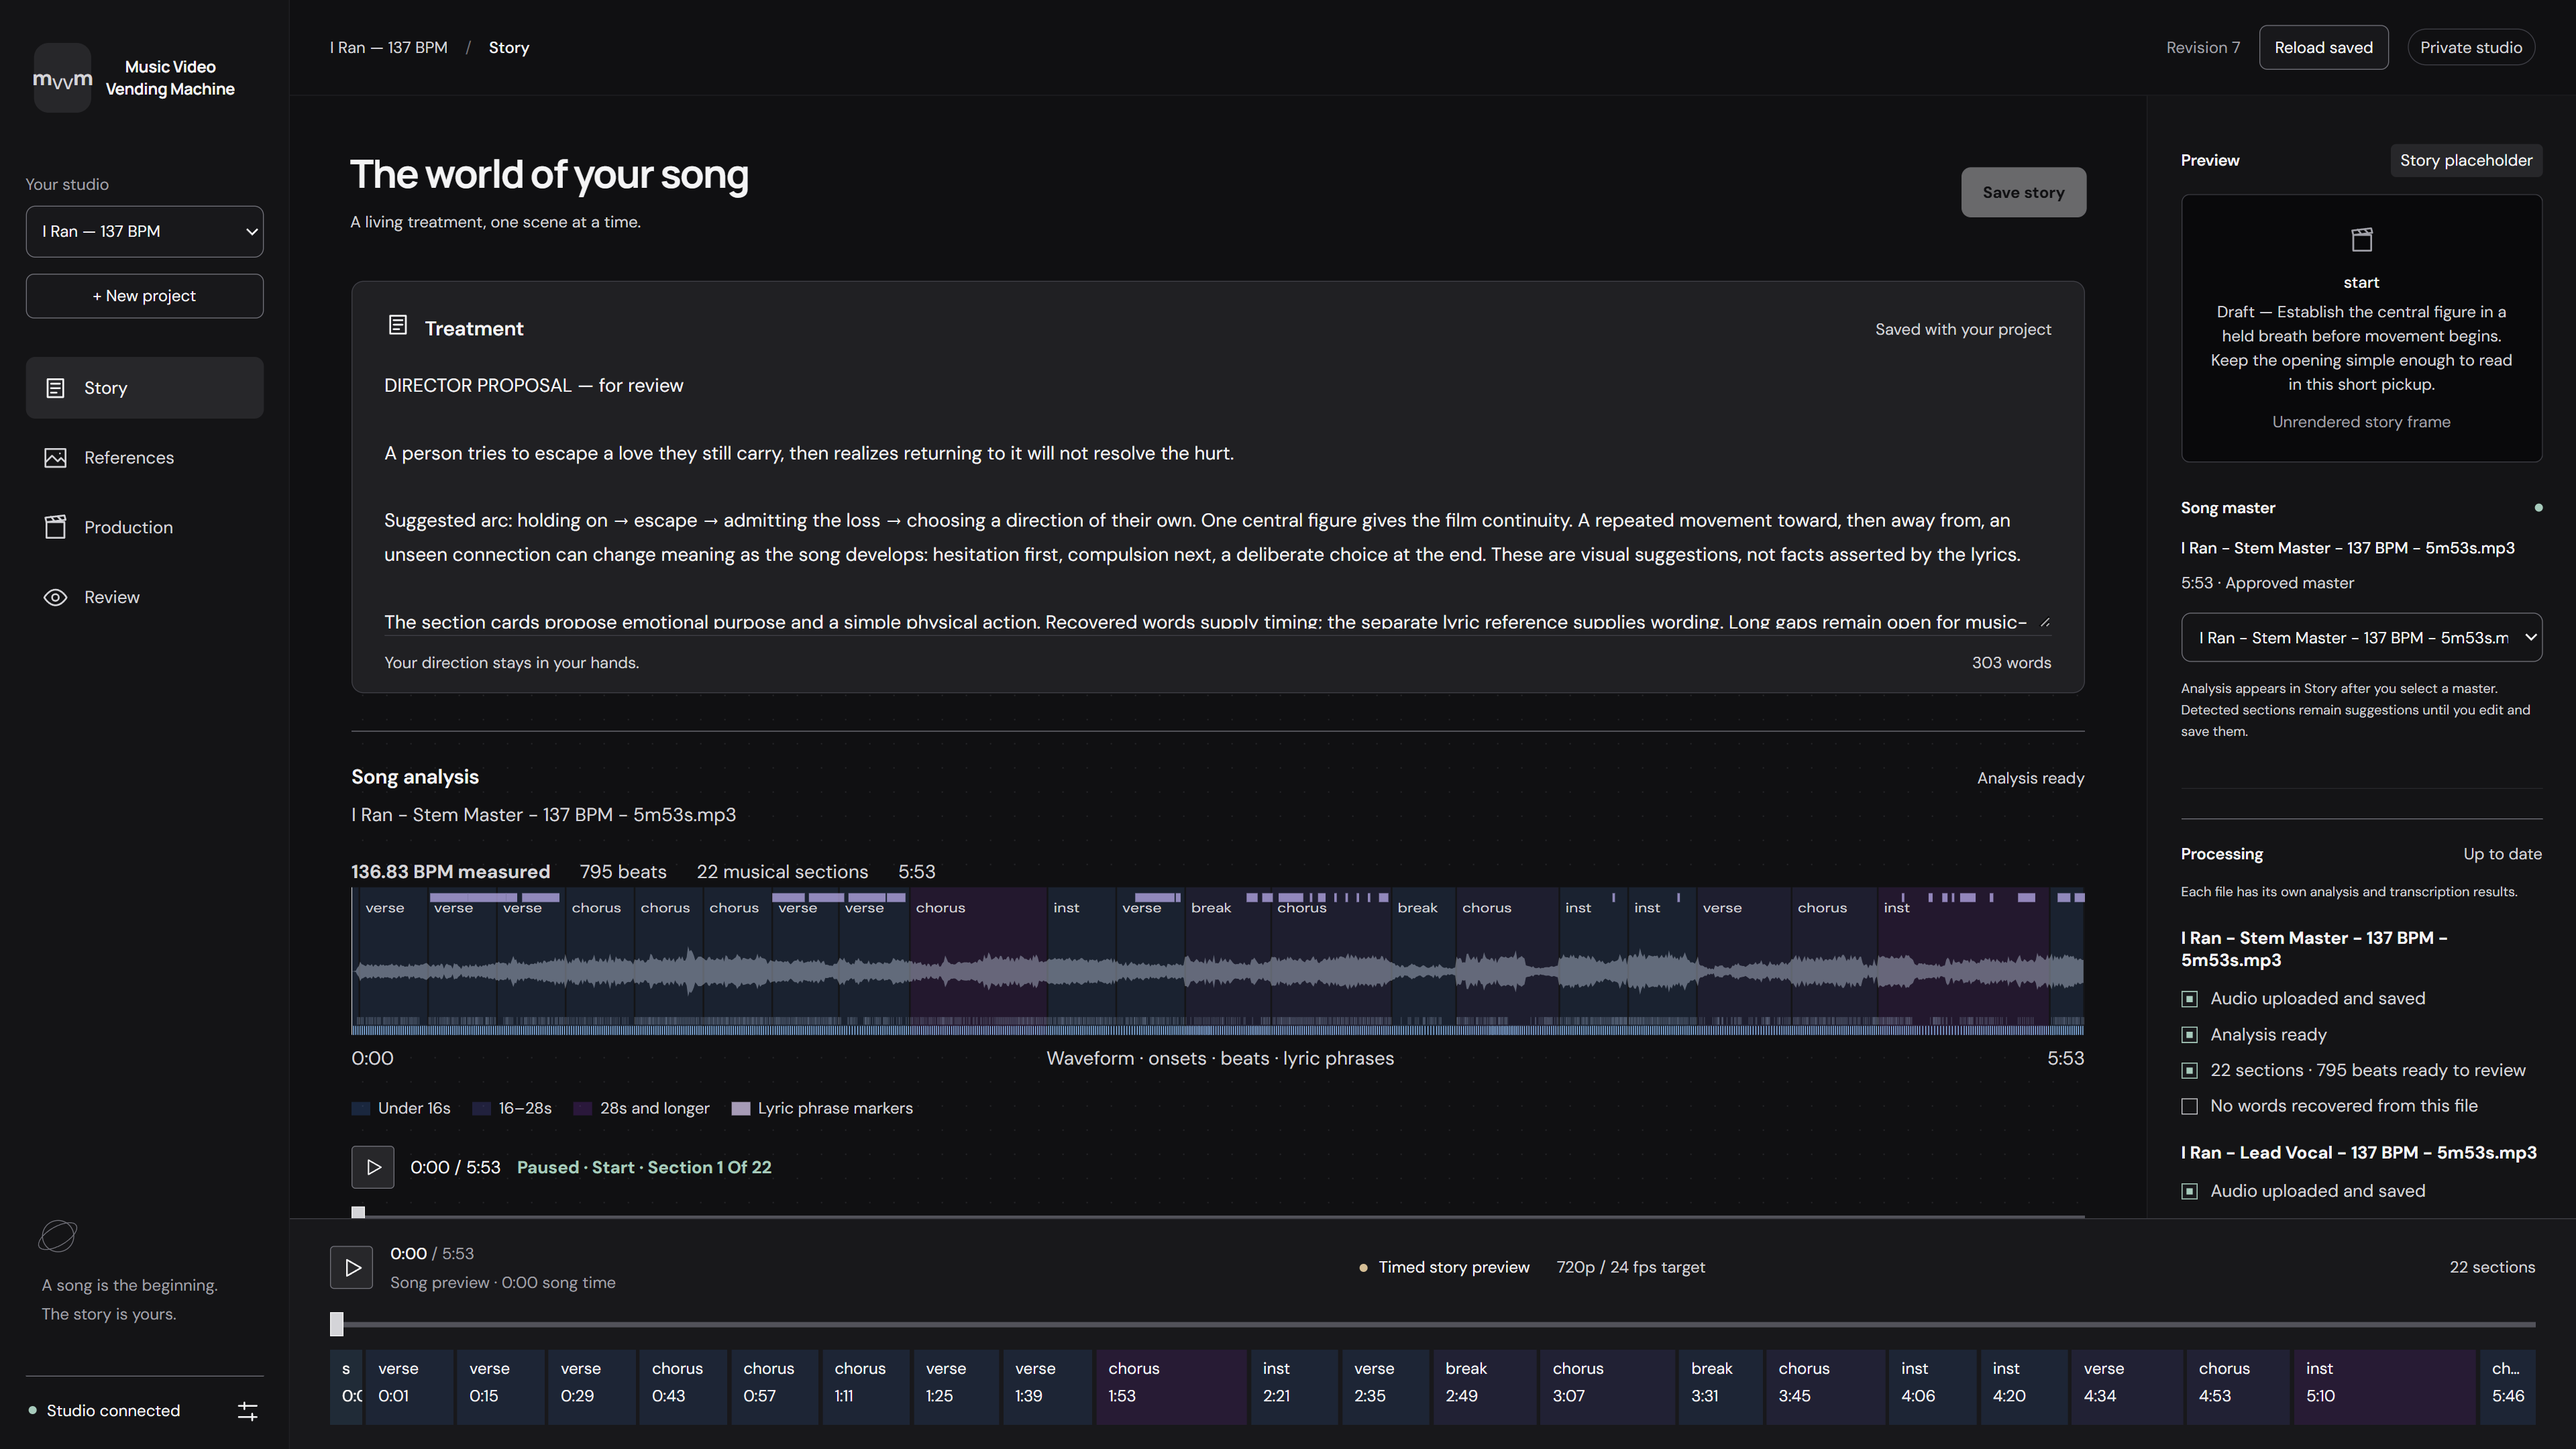
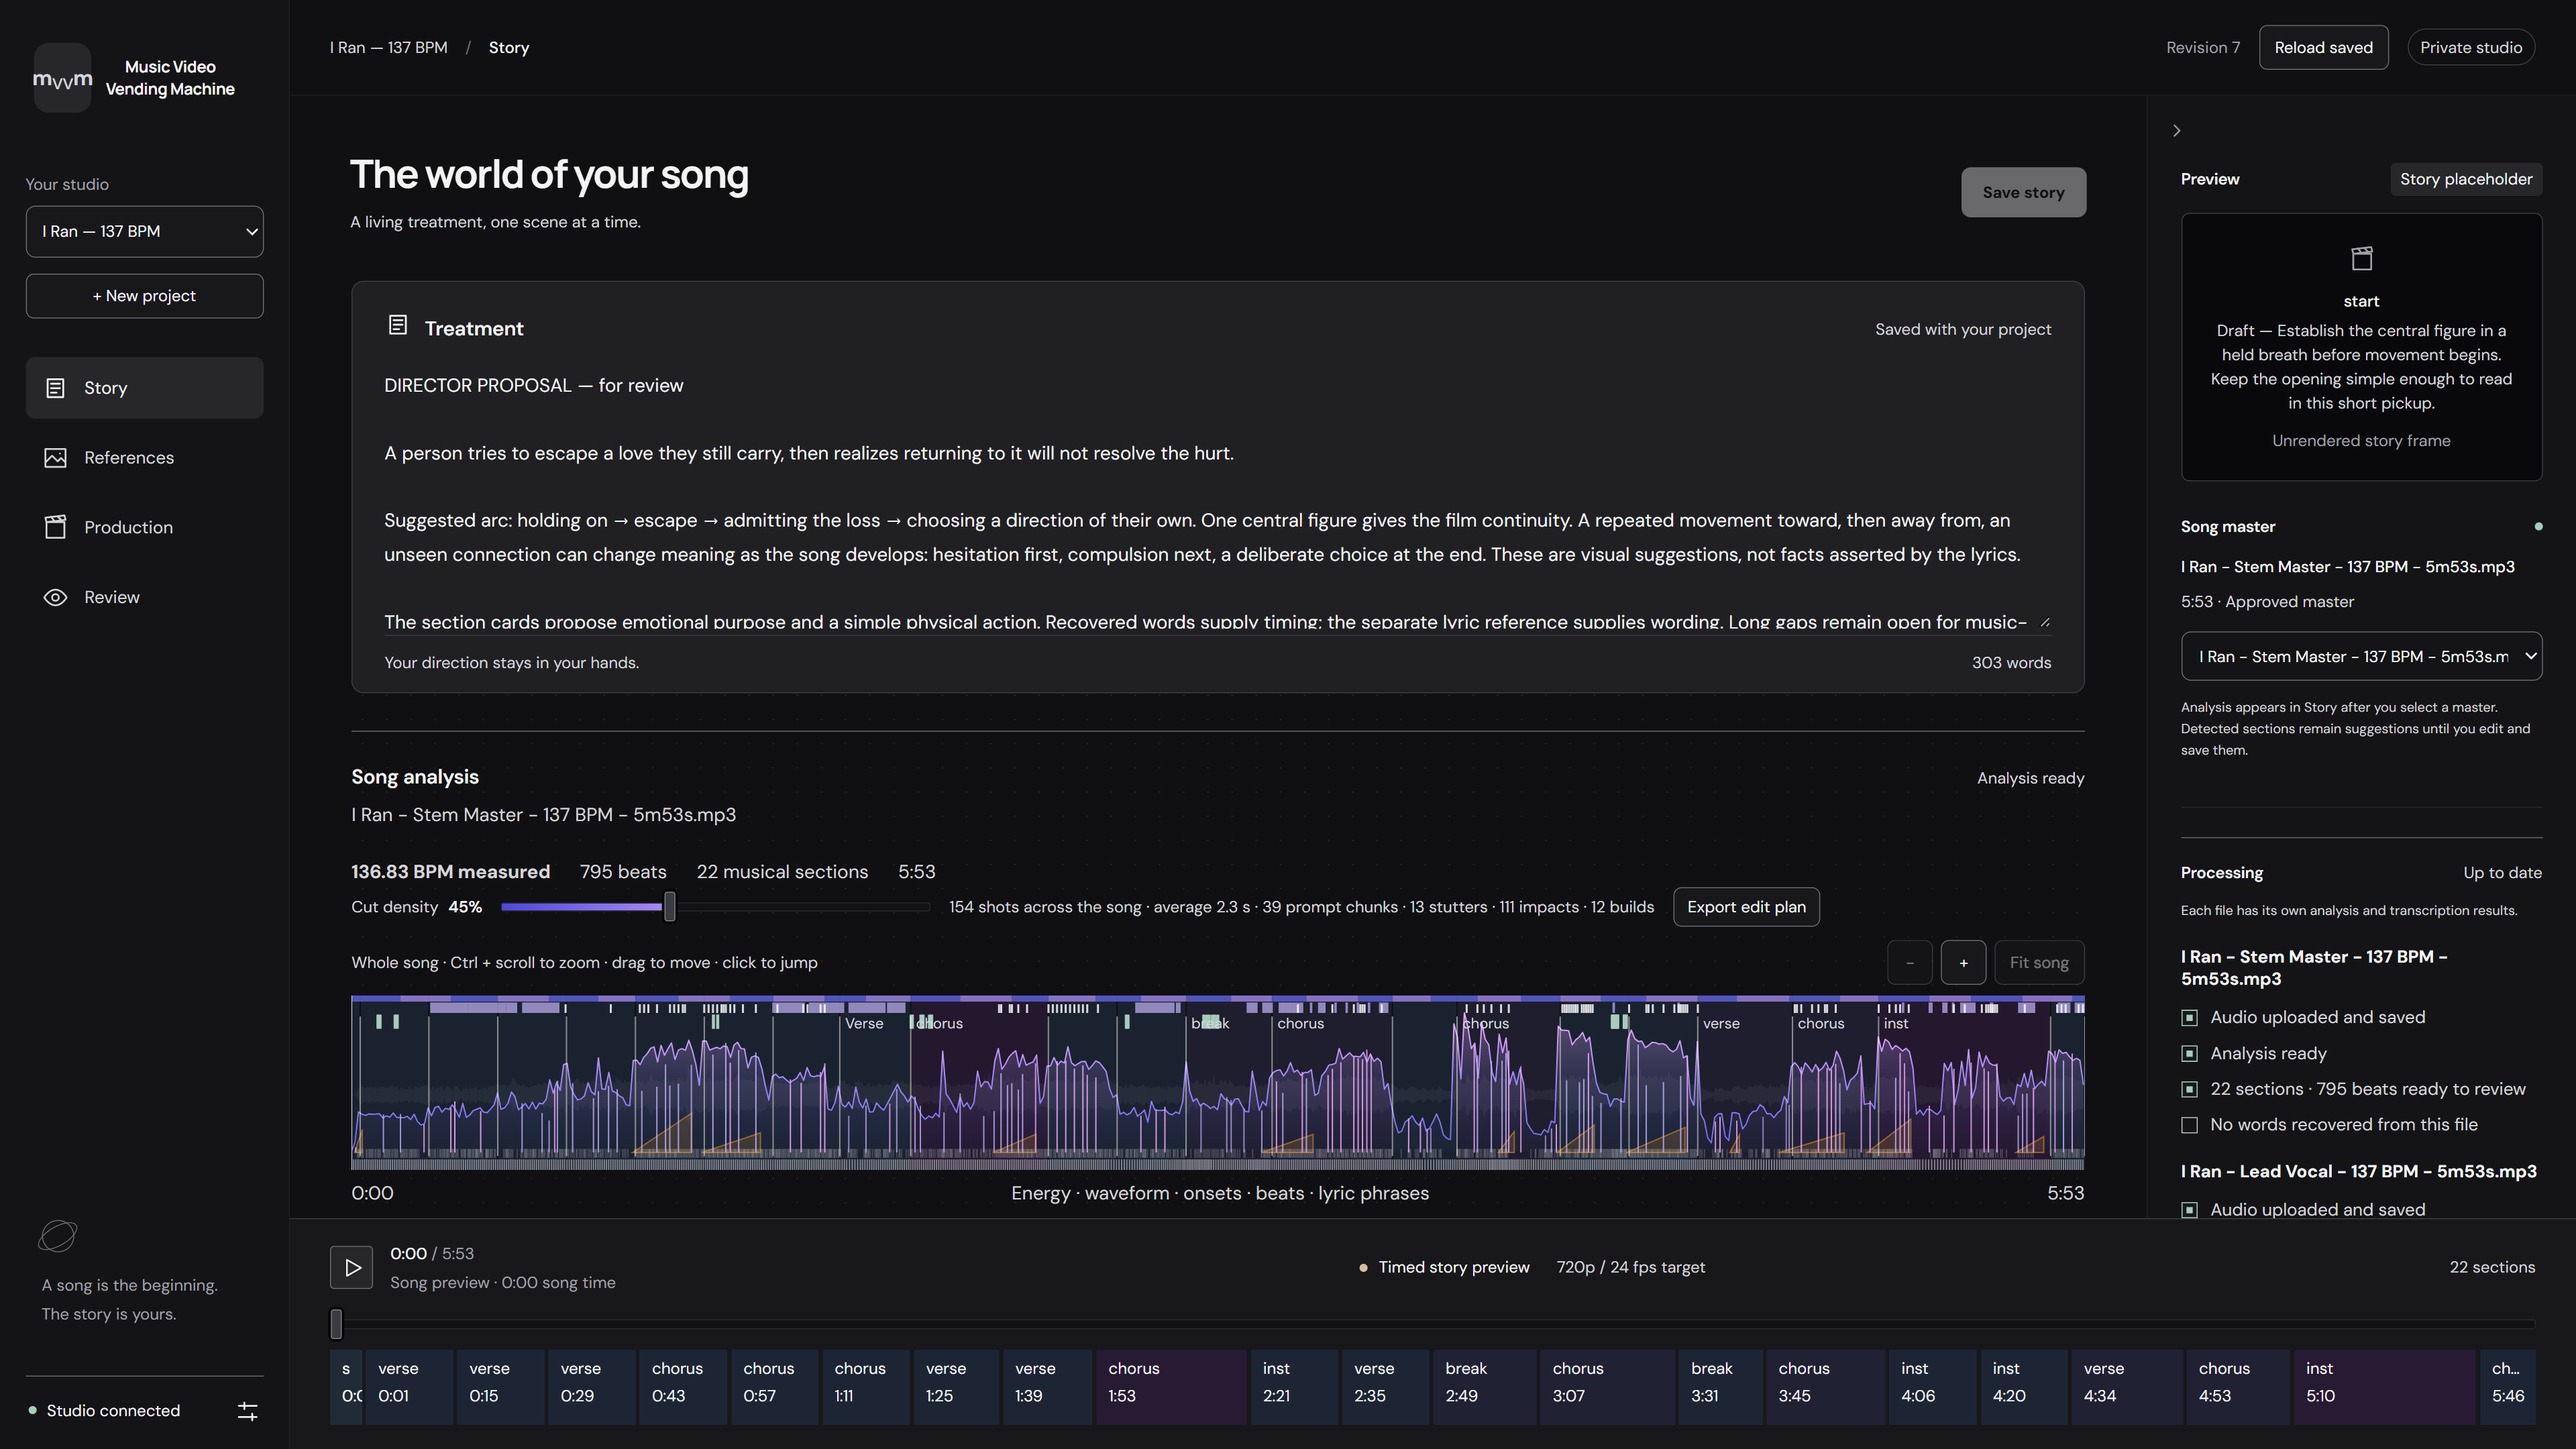
Align project previews and refresh holographic and analysis captures

diff --git a/src/variations/editorial/ProjectIndex.svelte b/src/variations/editorial/ProjectIndex.svelte
@@ -75,10 +75,10 @@
       <div bind:this={layers} class="relative aspect-[16/10] overflow-hidden bg-ink-2 ring-1 ring-white/10">
         {#each items as p, i (p.slug)}
           <div data-layer style:opacity={i === selected ? 1 : 0} style:z-index={i === selected ? 2 : 1} class="absolute inset-0" style:background-color={p.slug === 'review-room' ? '#080e0d' : p.slug === 'frame-lab' ? '#0a0a0a' : undefined}>
-          {#if p.imageFit === 'contain' && !['frame-lab', 'review-room'].includes(p.slug)}<img src={p.previewImage ?? p.image} alt="" aria-hidden="true" decoding="async" class="mirrored-image-fill absolute inset-0 h-full w-full object-cover" />{/if}
+          {#if p.slug === 'creative-studio-pro'}<img src={p.previewImage ?? p.image} alt="" aria-hidden="true" decoding="async" class="mirrored-image-fill absolute inset-0 h-full w-full object-cover" />{/if}
           <img src={p.previewImage ?? p.image} alt={i === selected ? `${p.title} project preview` : ''} aria-hidden={i !== selected}
             loading={i === 0 ? 'eager' : 'lazy'} decoding="async" draggable="false"
-            class={`absolute inset-0 h-full w-full ${['frame-lab', 'review-room'].includes(p.slug) ? 'object-cover object-top' : 'object-contain'}`} />
+            class={p.slug === 'creative-studio-pro' ? 'absolute inset-0 h-full w-full object-contain' : ['frame-lab', 'review-room'].includes(p.slug) ? 'absolute inset-0 h-full w-full object-cover object-top' : 'absolute left-0 top-0 h-auto w-full'} />
           </div>
         {/each}
         <div aria-hidden="true" class="pointer-events-none absolute bottom-3 left-3 z-10 flex gap-1.5">{#each items as p, i (p.slug)}<span class={`h-[2px] transition-all duration-300 ${i === selected ? 'w-6 bg-accent-2' : 'w-2.5 bg-white/25'}`}></span>{/each}</div>

diff --git a/src/variations/editorial/data.ts b/src/variations/editorial/data.ts
@@ -21,6 +21,9 @@ export const lab: Entry[] = labItems.map(p => ({
   summary: p.body, image: p.slug === 'creative-studio-pro' ? '/images/creative-studio-workspace.png' : '/images/music-video-workspace.png',
   imageFit: 'contain', status: p.status, year: '2026', role: 'Research / Development',
   stack: p.slug === 'creative-studio-pro' ? ['SvelteKit', 'Svelte Flow', 'AI SDK', 'Bun', 'WebGPU'] : ['SvelteKit', 'Rust', 'Convex', 'RustFS', 'FFmpeg'],
+  stackGroups: p.slug === 'creative-studio-pro'
+    ? [{title: 'Front end', items: ['SvelteKit', 'Svelte Flow', 'WebGPU']}, {title: 'Generation', items: ['AI SDK']}, {title: 'Runtime', items: ['Bun']}]
+    : [{title: 'Front end', items: ['SvelteKit']}, {title: 'State', items: ['Convex']}, {title: 'Infra', items: ['Rust', 'RustFS', 'FFmpeg']}],
   flow: p.slug === 'creative-studio-pro' ? [{label: 'STORY', sub: 'Develop the brief and story beats'}, {label: 'BOARD', sub: 'Arrange beats on a production canvas'}, {label: 'TAKES', sub: 'Approve generation and review takes'}, {label: 'CUTS', sub: 'Trim, finish and publish'}] : [{label: 'SONG', sub: 'Analyze beats and song sections'}, {label: 'TREATMENT', sub: 'Develop the music-video direction'}, {label: 'STORY', sub: 'Arrange the narrative and shot plan'}, {label: 'PRODUCTION', sub: 'Prepare approved shots for generation'}],
   media: [], experimental: true,
 }));

diff --git a/src/data/projects.ts b/src/data/projects.ts
@@ -239,7 +239,7 @@ export const labItems: LabItem[] = [
 
 export const skillGroups = [
   { title: "GENERATIVE AI", items: ["ComfyUI", "LoRA training", "Image", "Video", "Audio"] },
-  { title: "3D / VFX", items: ["Houdini", "Unreal Engine", "Nuke"] },
+  { title: "3D / VFX", items: ["Houdini", "Unreal Engine", "Nuke", "After Effects"] },
   { title: "WEB", items: ["TypeScript", "Svelte", "React", "WebGPU"] },
   { title: "BACKEND", items: ["Python", "Rust", "Convex", "Trigger.dev", "Docker"] },
 ];
